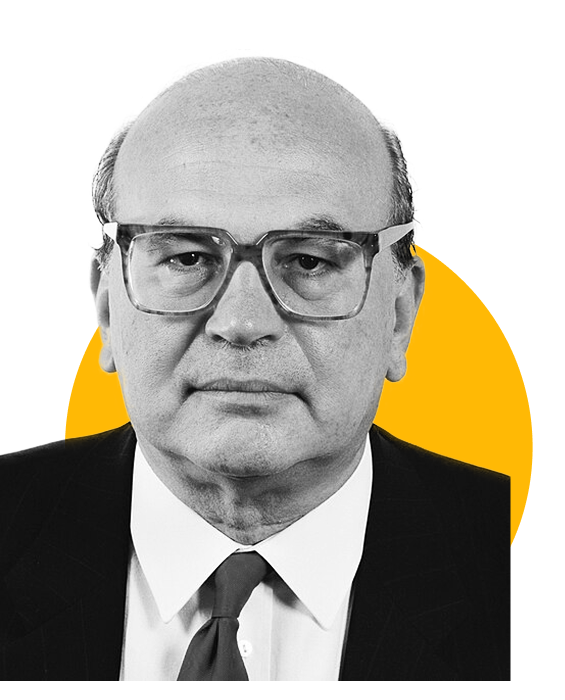
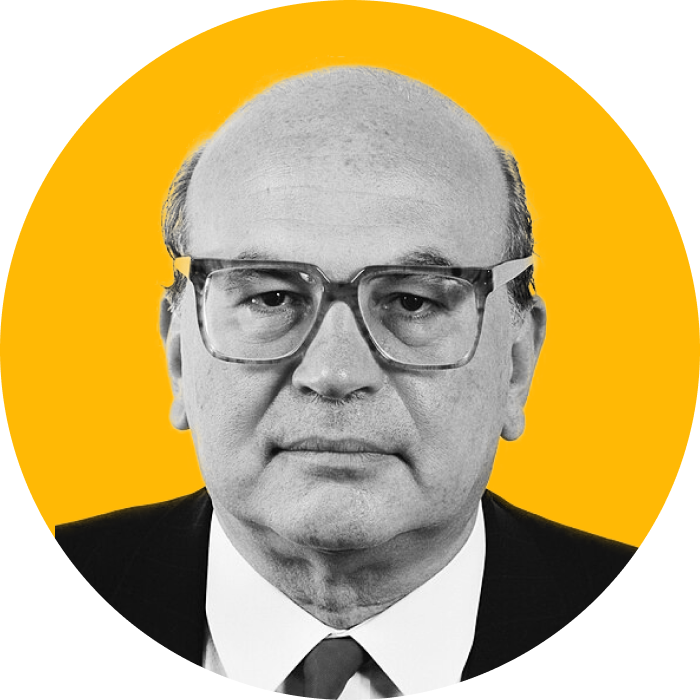
pres sistemati e alcune regioni ricollegate

diff --git a/sketch_dettaglio.js b/sketch_dettaglio.js
@@ -201,7 +201,7 @@ function updateSvgRegionOpacityFromAffluenza() {
 
       // 2. Fallback generico (Spazi invece di underscore)
       if (val === undefined) {
-          const spaceKey = id.replace(/_/g, ' '); 
+          const spaceKey = id.replace(/_/g, ' ');
           val = regionValues[spaceKey] ?? regionValues[spaceKey.toUpperCase()];
       }
       
@@ -209,6 +209,20 @@ function updateSvgRegionOpacityFromAffluenza() {
       if (val === undefined) {
            const dashKey = id.replace(/_/g, '-');
            val = regionValues[dashKey] ?? regionValues[dashKey.toUpperCase()];
+      }
+
+      // 4. Fuzzy normalization fallback: match abbreviations/punctuation variants
+      if (val === undefined) {
+          const normalize = s => (s || '').toString().toUpperCase().replace(/[^A-Z0-9]/g, '');
+          const targetNorm = normalize(id.replace(/_/g, ' '));
+          for (const k of Object.keys(regionValues)) {
+              if (!k) continue;
+              const keyNorm = normalize(k);
+              if (keyNorm === targetNorm || keyNorm.includes(targetNorm) || targetNorm.includes(keyNorm)) {
+                  val = regionValues[k];
+                  break;
+              }
+          }
       }
 
       // Applica Opacità
@@ -306,12 +320,8 @@ window.onRegionSelected = function(regionId) {
   // E. Aggiorna il nome della regione nel header
   const regionNameElement = document.getElementById('selected-region');
   if (regionNameElement) {
-      let displayName = normalized;
-      // Se è una feature GeoJSON, estrai il nome dalla proprietà giusta
-      if (typeof selectedRegion === 'object' && selectedRegion.properties) {
-          displayName = selectedRegion.properties.reg_name || selectedRegion.properties.denominazione_reg || selectedRegion.properties.denominazione || selectedRegion.properties.nome || normalized;
-      }
-      regionNameElement.textContent = displayName;
+      // Usa sempre il nome normalizzato (che è pulito e standardizzato)
+      regionNameElement.textContent = normalized;
   }
   
   // F. Forza aggiornamento
@@ -2259,6 +2269,7 @@ const CSV_REGION_NAME_VARIANTS = {
   'ABRUZZI': 'ABRUZZO',
   'ABRUZZO': 'ABRUZZO',
   'EMILIA R.': 'EMILIA-ROMAGNA',
+  'EMILIA ROM.': 'EMILIA-ROMAGNA', // Abbreviazione usata nel 1993
   'EMILIA-ROMAGNA': 'EMILIA-ROMAGNA',
   'FRIULI V.G.': 'FRIULI-VENEZIA GIULIA',
   'FRIULI V. G.': 'FRIULI-VENEZIA GIULIA', // Variante usata nel 1993 (con spazi)
@@ -2271,6 +2282,7 @@ const CSV_REGION_NAME_VARIANTS = {
   'TRENTINO-ALTO ADIGE': 'TRENTINO-ALTO ADIGE',
   // Varianti per Valle d'Aosta nei CSV storici
   'VAL D\'AOSTA': 'VALLE D\'AOSTA',
+  'VALLE D\'AOS.': 'VALLE D\'AOSTA', // Abbreviazione usata nel 1993
   'VALLE D\'AOSTA': 'VALLE D\'AOSTA',
   'VALLE D\'AOSTA/VALLÃ‰E D\'AOSTE': 'VALLE D\'AOSTA'
 };
@@ -2503,6 +2515,7 @@ function joinGeoJSONData(gj) {
   }
   
   redraw();
+  
 }
 
 // Normalize names for robust matching (remove diacritics, punctuation, collapse spaces)
@@ -5030,44 +5043,29 @@ function drawGenderChart() {
   push();
   textAlign(CENTER, TOP);
   textSize(20);
-  textStyle(BOLD);
   textFont('Stix Two Text');
+   textStyle(BOLD);
   fill(THEME_BLUE[0], THEME_BLUE[1], THEME_BLUE[2]);
   text('UOMINI', leftLabelX, labelTopY);
   text(maschiPct.toFixed(1) + '%', leftLabelX, percentY);
   textSize(16);
+  textStyle(NORMAL);
   text(maschi.toLocaleString('it-IT'), leftLabelX, countY);
   pop();
 
-  // Femmine - con bordo bianco per maggiore visibilità
+  // Femmine
   push();
   textAlign(CENTER, TOP);
   textFont('Stix Two Text');
   textStyle(BOLD);
   
-  // Disegna "DONNE" con bordo bianco
-  fill(255, 255, 255); // Bordo bianco
-  stroke(255, 255, 255);
-  strokeWeight(4);
-  textSize(20);
-  text('DONNE', rightLabelX, labelTopY);
-  
-  // Disegna testo principale "DONNE"
+  // Disegna "DONNE"
   noStroke();
   fill(THEME_ORANGE[0], THEME_ORANGE[1], THEME_ORANGE[2]);
   textSize(20);
   text('DONNE', rightLabelX, labelTopY);
   
-  // Disegna percentuale con bordo bianco
-  fill(255, 255, 255); // Bordo bianco
-  stroke(255, 255, 255);
-  strokeWeight(4);
-  textSize(20);
-  text(femminePct.toFixed(1) + '%', rightLabelX, percentY);
-  
-  // Disegna percentuale principale
-  noStroke();
-  fill(THEME_ORANGE[0], THEME_ORANGE[1], THEME_ORANGE[2]);
+  // Disegna percentuale
   textSize(20);
   text(femminePct.toFixed(1) + '%', rightLabelX, percentY);
   
@@ -5582,7 +5580,7 @@ function drawPresidentSlider(x, y, w, h) {
             const aspect = img.width / img.height;
             let dw = imgSize; let dh = imgSize;
             if (aspect > 1) dh = imgSize / aspect; else dw = imgSize * aspect;          
-            dw *= 1.1; dh *= 1.1;
+            dw *= 1.0; dh *= 1.0;
             imageMode(CENTER);
             image(img, imgCenterX, imgCenterY, dw, dh);
             drawingContext.restore();
